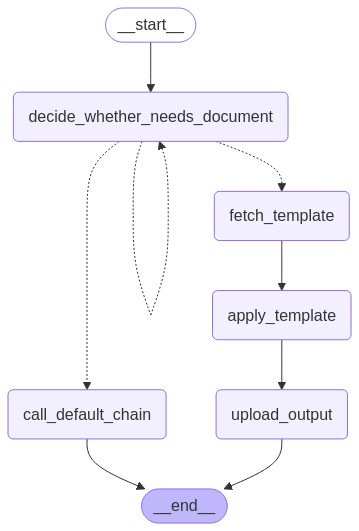
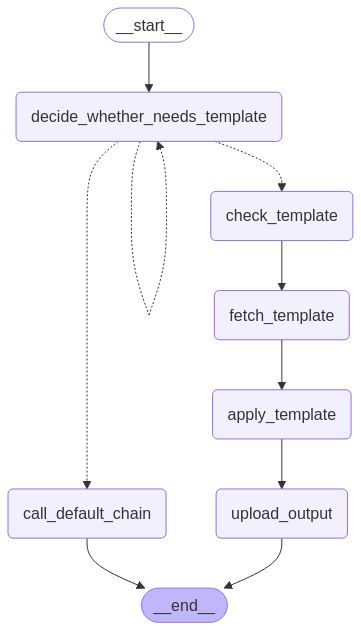
Comment added

diff --git a/lgraph/drive_doc/office_template.py b/lgraph/drive_doc/office_template.py
@@ -118,7 +118,7 @@ def check_template(state: State) -> State:
 
         st.toast("Look at command line", icon="👀")
         input(
-            f'This is temporary and will be replaced with a checkpoint in the graph where the user answers this question via the UI\n.I think I need "{OfficeTemplate.list_as_dict()[file_id].title}" from Google Drive. Proceed?'  # noqa
+            f'This is temporary and will be replaced with a checkpoint in the graph where the user answers this question via the UI\n.I think I need "{OfficeTemplate.list_as_dict()[file_id].title}" from Google Drive. Is this correct? Press any key to proceed.'  # noqa
         )
 
     return state
@@ -229,6 +229,9 @@ def template_router(
 
         else:
             invalid_template_message = "decide_whether_needs_template node returned an invalid template UID"
+            # this should no longer be necessary now that the LLM output is forced to be a template UID via
+            # force_enum_parser_multi
+            # maybe remove this?
 
             if call_no < MAX_ROUTER_RETRIES:
                 logger.info(invalid_template_message + " – retrying")

diff --git a/lgraph/research_agent/research_agent.py b/lgraph/research_agent/research_agent.py
@@ -236,7 +236,7 @@ def create_graph(**kwargs) -> CompiledStateGraph:
 
 if __name__ == "__main__":
 
-    toggle = True
+    toggle = False
 
     config = {}
     agent = create_graph()
